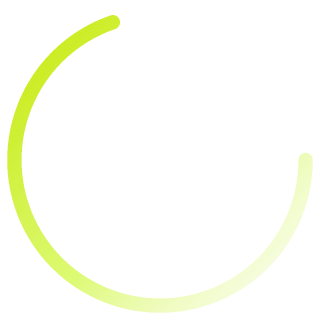
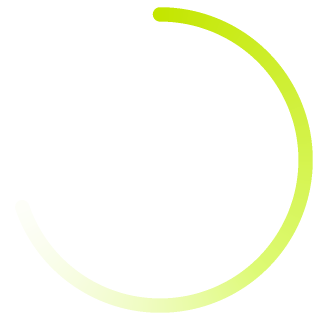
[Front] design: 호를 12시에서 시작하고 머리를 늘 진한 연두로
- 시작점을 3시에서 12시로 옮겨 가장 짧을 때 맨 위에 놓이게 함
- 그라데이션을 그림 가로가 아니라 호를 따라 흐르게 바꿈
  가로 그라데이션은 호가 그림 어디에 놓이느냐에 따라 색이 달라져,
  짧아질수록 머리가 옅어졌다

Changed region(s): [[0.4688, 0.0, 1.0, 0.9688], [0.0, 0.0312, 0.4375, 0.9688]]

diff --git a/Frontend/scripts/generate-loading-ring.js b/Frontend/scripts/generate-loading-ring.js
@@ -10,7 +10,7 @@
   - strokeWidth = size * 0.045
   - radius = size / 2 - strokeWidth
   - 색이 있는 구간의 비율은 인자로 받는다. 나머지는 비고 양 끝은 둥글게 처리한다.
-  - 그라데이션: 왼쪽 위 → 오른쪽 아래
+  - 그라데이션은 호를 따라 흐른다. 머리(12시에서 시작하는 쪽)가 가장 진하다.
 */
 const fs = require('fs');
 const zlib = require('zlib');
@@ -53,34 +53,44 @@ function gradientAt(t) {
   return { rgb: STOPS[0].rgb, alpha: STOPS[0].alpha };
 }
 
+/** 12시 방향에서 시작해 시계 방향으로 그린다. 호가 짧을 때 맨 위에 놓이도록. */
+const START_ANGLE = -Math.PI / 2;
+
+/** 색이 있는 구간이 차지하는 각도. */
+const SPAN = Math.PI * 2 * DASH_RATIO;
+
 /**
- * 이 점이 링 안에 있는지.
+ * 이 점이 호의 어디쯤인지. 호 밖이면 null.
  *
- * 띠(가운데 원에서 두께의 절반 이내) 위에 있고, 색이 있는 각도 구간에 들어야 한다.
- * 구간 밖이라도 양 끝의 둥근 마개 안이면 칠한다.
+ * 돌려주는 값은 **호를 따라간 비율**이다(0 = 머리, 1 = 꼬리). 그림 전체를 가로지르는
+ * 그라데이션이 아니라 이 값으로 색을 정해야, 길이가 달라져도 머리는 늘 진한 연두로 남는다.
+ * 가로 그라데이션을 쓰면 짧은 호가 그림 어디에 놓이느냐에 따라 색이 달라진다.
  */
-function inRing(x, y) {
+function sampleArc(x, y) {
   const cx = x - SIZE / 2;
   const cy = y - SIZE / 2;
   const distance = Math.hypot(cx, cy);
   const half = STROKE / 2;
 
   if (Math.abs(distance - RADIUS) <= half) {
-    // SVG와 같게 3시 방향에서 시작해 시계 방향으로 진행한다.
-    let angle = Math.atan2(cy, cx);
-    if (angle < 0) angle += Math.PI * 2;
+    let travelled = Math.atan2(cy, cx) - START_ANGLE;
+    while (travelled < 0) travelled += Math.PI * 2;
 
-    if (angle <= Math.PI * 2 * DASH_RATIO) return true;
+    if (travelled <= SPAN) return travelled / SPAN;
   }
 
-  for (const end of [0, Math.PI * 2 * DASH_RATIO]) {
-    const ex = Math.cos(end) * RADIUS;
-    const ey = Math.sin(end) * RADIUS;
+  // 양 끝의 둥근 마개. 머리 쪽은 0, 꼬리 쪽은 1로 친다.
+  for (const [angle, t] of [
+    [START_ANGLE, 0],
+    [START_ANGLE + SPAN, 1],
+  ]) {
+    const ex = Math.cos(angle) * RADIUS;
+    const ey = Math.sin(angle) * RADIUS;
 
-    if (Math.hypot(cx - ex, cy - ey) <= half) return true;
+    if (Math.hypot(cx - ex, cy - ey) <= half) return t;
   }
 
-  return false;
+  return null;
 }
 
 const raw = Buffer.alloc(SIZE * (SIZE * 4 + 1));
@@ -91,13 +101,18 @@ for (let y = 0; y < SIZE; y += 1) {
 
   for (let x = 0; x < SIZE; x += 1) {
     let hits = 0;
+    let travelledSum = 0;
 
     for (let sy = 0; sy < SUPERSAMPLE; sy += 1) {
       for (let sx = 0; sx < SUPERSAMPLE; sx += 1) {
         const px = x + (sx + 0.5) / SUPERSAMPLE;
         const py = y + (sy + 0.5) / SUPERSAMPLE;
+        const travelled = sampleArc(px, py);
 
-        if (inRing(px, py)) hits += 1;
+        if (travelled === null) continue;
+
+        hits += 1;
+        travelledSum += travelled;
       }
     }
 
@@ -106,7 +121,7 @@ for (let y = 0; y < SIZE; y += 1) {
 
     if (coverage === 0) continue;
 
-    const { rgb, alpha } = gradientAt((x + y) / (SIZE * 2));
+    const { rgb, alpha } = gradientAt(travelledSum / hits);
     const finalAlpha = alpha * coverage;
 
     // 미리 곱하지 않은 값으로 저장한다(PNG 규격).
